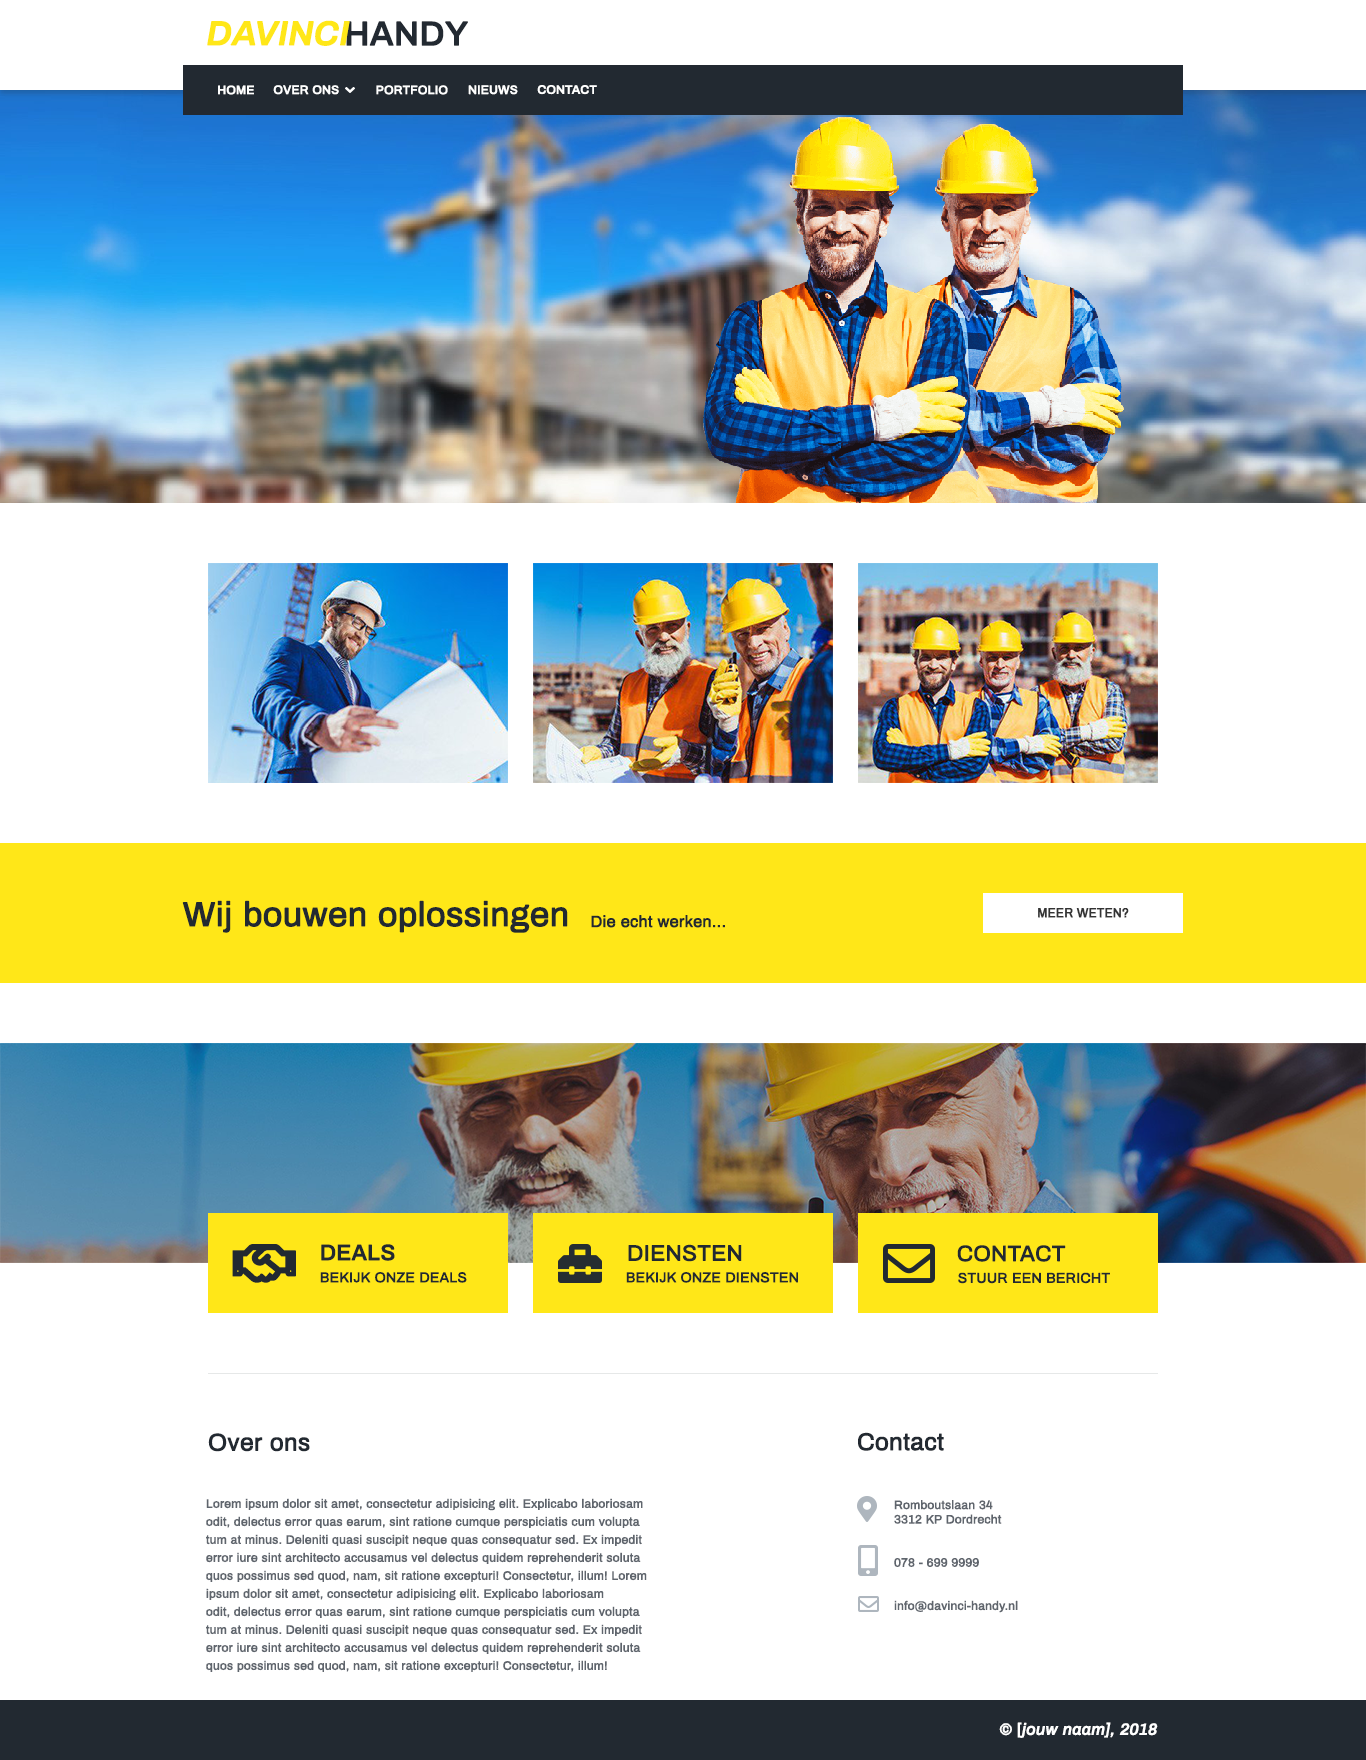
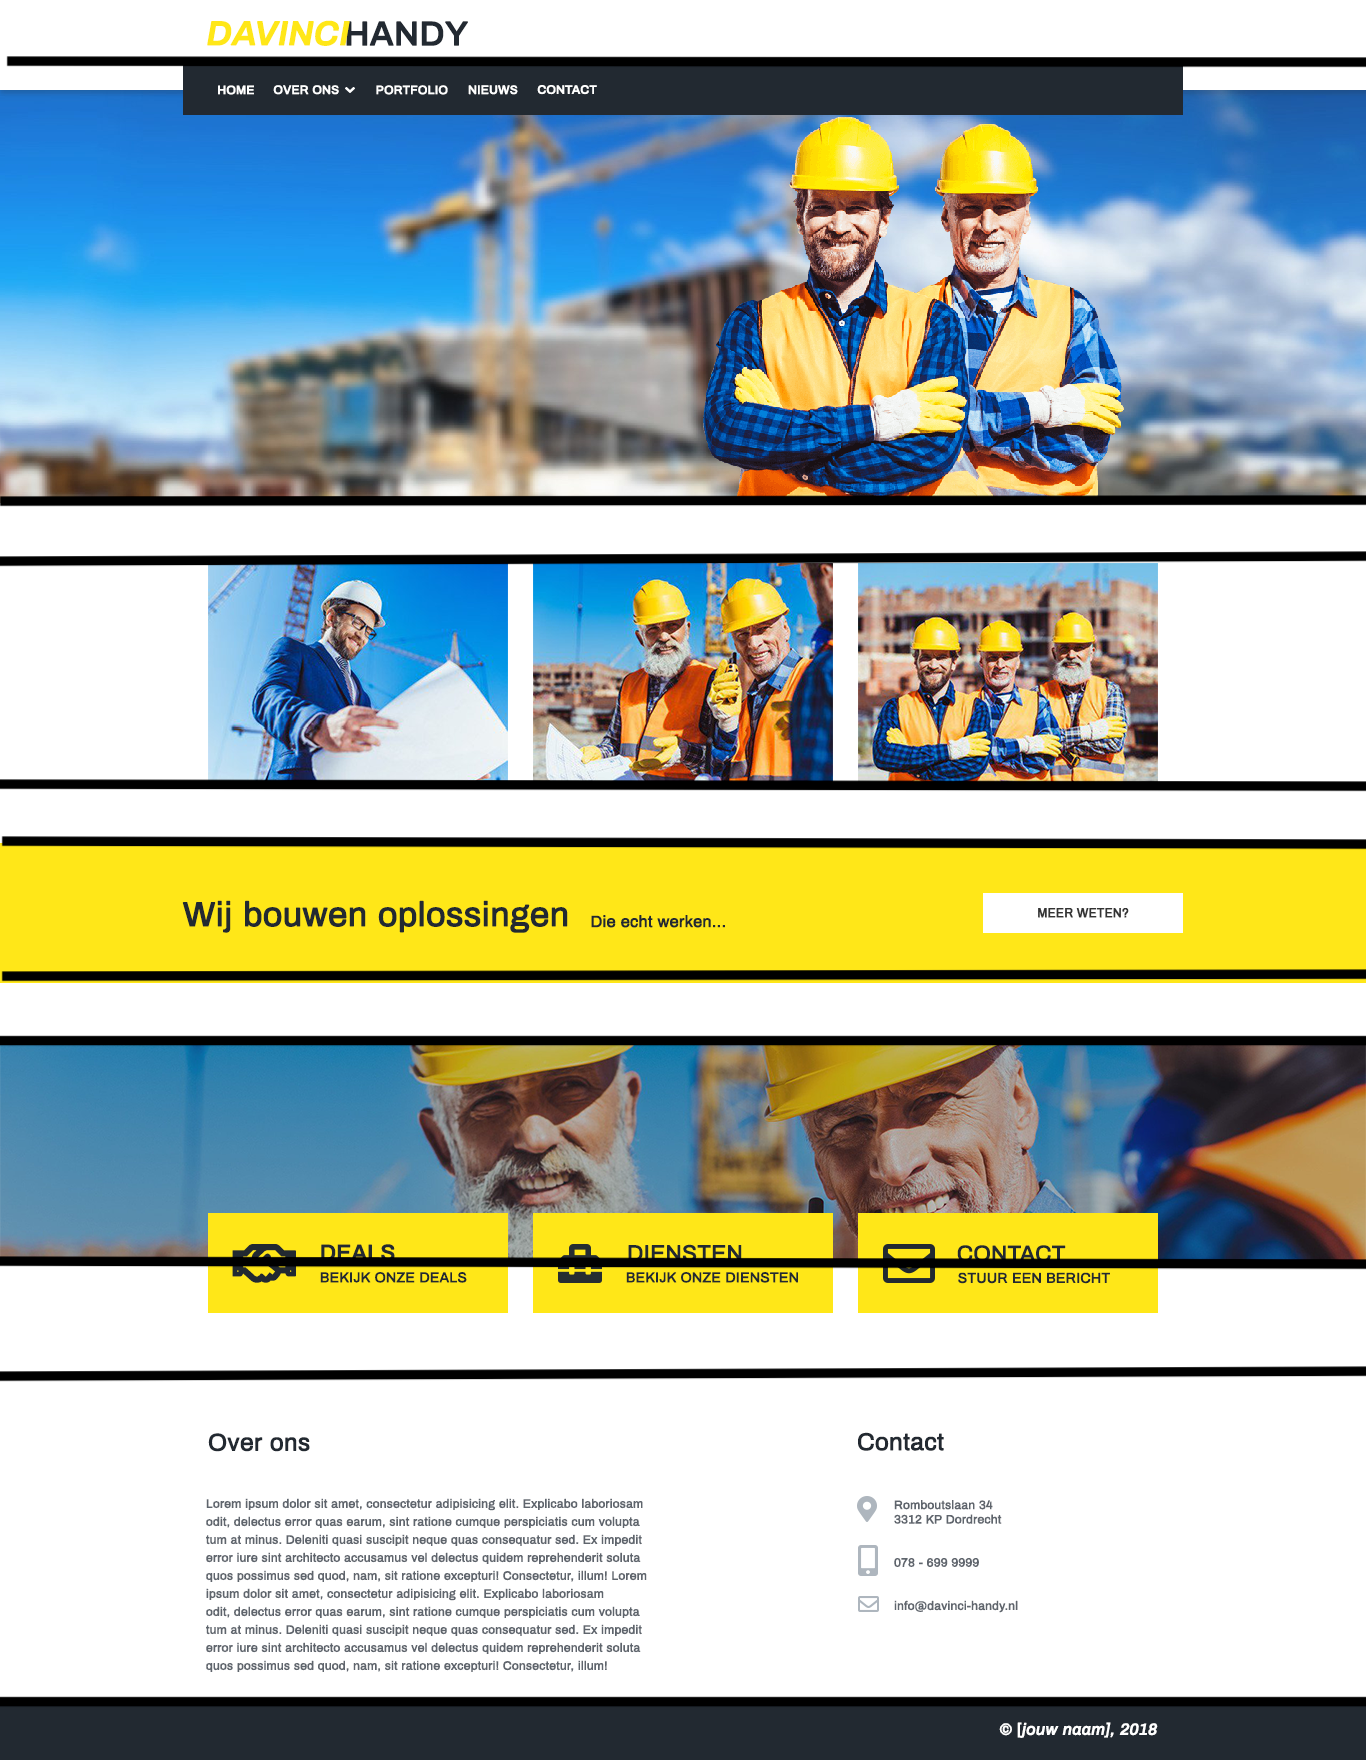
Bezig met de ribbon te stylen.

diff --git a/css/style.css b/css/style.css
@@ -1,0 +1,60 @@
+body{
+    font-family: 'Archivo', sans-serif;
+}
+
+.container{
+    border: 3px solid red;
+    width: 1000px;
+    height: 900px;
+}
+
+.header{
+    position: absolute;
+}
+
+nav{
+   display: inline block;
+   background-color: #222931;
+   width: 950px;
+   height: 30px;
+   padding-top: 20px;
+}
+
+.header nav > a{
+    padding-left: 20px;
+    text-decoration: none;
+    color: white;
+}
+
+.mainHeader > img{
+   width: 1000px;
+    position: relative;
+    top: 70px;
+    z-index: -1;
+}
+
+.bannerItems > img{
+    position: relative;
+    top: 100px;
+    left: 90px;
+    padding-left: 10px;
+    width: 250px;
+}
+
+p:nth-of-type(1){
+    position: relative;
+    font-size: 34px;
+    left: 80px;
+}
+
+p:nth-of-type(2){
+   position: absolute;
+}
+
+hr{
+    position: relative;
+    top: 120px;
+    height: 130px;
+    width: 1000px;
+    background-color: #ffe718;
+}
